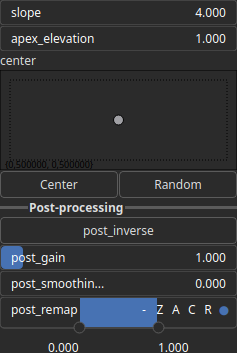
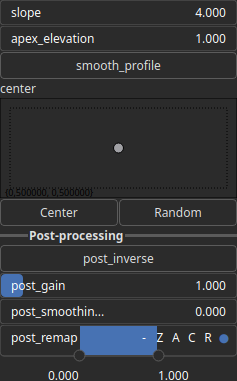
Add smooth profile for Cone node

diff --git a/Hesiod/src/model/nodes/nodes_function/cone.cpp b/Hesiod/src/model/nodes/nodes_function/cone.cpp
@@ -29,10 +29,11 @@ void setup_cone_node(BaseNode *p_node)
   // attribute(s)
   ADD_ATTR(FloatAttribute, "slope", 4.f, 0.01f, FLT_MAX);
   ADD_ATTR(FloatAttribute, "apex_elevation", 1.f, 0.f, FLT_MAX);
+  ADD_ATTR(BoolAttribute, "smooth_profile", false);
   ADD_ATTR(Vec2FloatAttribute, "center");
 
   // attribute(s) order
-  p_node->set_attr_ordered_key({"slope", "apex_elevation", "center"});
+  p_node->set_attr_ordered_key({"slope", "apex_elevation", "smooth_profile", "center"});
 
   setup_post_process_heightmap_attributes(p_node);
 
@@ -67,6 +68,7 @@ void compute_cone_node(BaseNode *p_node)
         *pa_out = hmap::cone(shape,
                              GET("slope", FloatAttribute),
                              GET("apex_elevation", FloatAttribute),
+                             GET("smooth_profile", BoolAttribute),
                              GET("center", Vec2FloatAttribute),
                              pa_dx,
                              pa_dy,

diff --git a/docs/node_reference/nodes/Cone.md b/docs/node_reference/nodes/Cone.md
@@ -39,6 +39,7 @@ Primitive/Function
 |post_remap|Value range|No description|
 |post_smoothing_radius|Float|No description|
 |slope|Float|No description|
+|smooth_profile|Bool|No description|
 
 # Example
 
